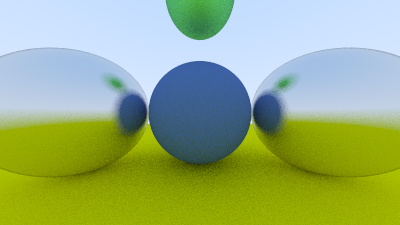
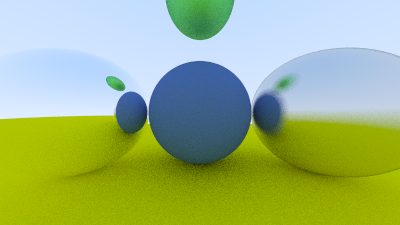
feat: refraction with total internal reflection

diff --git a/src/main.cpp b/src/main.cpp
@@ -17,12 +17,13 @@ int main() {
 	
 	auto material_ground = std::make_shared<lambertian>(color(0.8f, 0.8f, 0.0));
 	auto material_center = std::make_shared<lambertian>(color(0.1f, 0.2f, 0.5f));
+	auto material_dielectric = std::make_shared<dielectric>(1.0/1.33);
 	auto material_metal = std::make_shared<metal>(color(0.8f, 0.8f, 0.8f), 0.2);
 	auto material_metal2 = std::make_shared<metal>(color(0.2f, 0.8f, 0.3f), 0.9);
 
 	world.add(std::make_shared<sphere>(enginemath::Vec3(0.0f, -100.5f, -1.0f), 100.0f, material_ground));
 	world.add(std::make_shared<sphere>(enginemath::Vec3(0.0f, 0.0f, -1.2f), 0.5f, material_center));
-	world.add(std::make_shared<sphere>(enginemath::Vec3(-1.0f, 0.0f, -1.0f), 0.5f, material_metal));
+	world.add(std::make_shared<sphere>(enginemath::Vec3(-1.0f, 0.0f, -1.0f), 0.5f, material_dielectric));
 	world.add(std::make_shared<sphere>(enginemath::Vec3(1.0f, 0.0f, -1.0f), 0.5f, material_metal));
 	world.add(std::make_shared<sphere>(enginemath::Vec3(0.0f, 1.0f, -1.0f), 0.3f, material_metal2));
 

diff --git a/src/material.cpp b/src/material.cpp
@@ -43,3 +43,33 @@ bool metal::scatter(const Ray& r_in,
 	attenuation = albedo;
 	return (scattered.getDirection().dot(rec.normal) > 0);
 }
+
+dielectric::dielectric(float refraction_index) : refraction_index(refraction_index) {
+
+}
+
+bool dielectric::scatter(const Ray& r_in,
+	const hit_record& rec,
+	color& attenuation,
+	Ray& scattered) const {
+
+	attenuation = color(1.0f);
+	double ri = rec.front_face ? (1.0 / refraction_index) : refraction_index;
+
+	enginemath::Vec3 unit_direction = r_in.getDirection().normalized();
+	float cos_theta = std::fmin((-unit_direction).dot(rec.normal), 0);
+	float sin_theta = std::sqrt(1 - cos_theta * cos_theta);
+	enginemath::Vec3 direction;
+
+	// check for TIR
+	if (ri * sin_theta > 1.0) {
+		direction = unit_direction.reflectAcross(rec.normal);
+	}
+	else {
+		direction = enginemath::refract(unit_direction, rec.normal, ri);
+	}
+	
+
+	scattered = Ray(rec.p, direction);
+	return true;
+}

diff --git a/src/utilities.hpp b/src/utilities.hpp
@@ -31,4 +31,11 @@ namespace enginemath {
 		}
 	}
 
+	inline enginemath::Vec3 refract(const enginemath::Vec3& uv, const enginemath::Vec3& n, double etai_over_etat) {
+		auto cos_theta = std::fmin((-uv).dot(n), 1.0);
+
+		enginemath::Vec3 r_out_perp = etai_over_etat * (uv + cos_theta * n);
+		enginemath::Vec3 r_out_parallel = -std::sqrt(std::fabs(1.0 - r_out_perp.magnitudeSq())) * n;
+		return r_out_perp + r_out_parallel;
+	}
 }

diff --git a/src/material.hpp b/src/material.hpp
@@ -40,3 +40,16 @@ class metal : public material {
 		color albedo;
 		float fuzz;
 };
+
+class dielectric : public material {
+	public:
+		dielectric(float refraction_index);
+
+		bool scatter(const Ray& r_in,
+			const hit_record& rec,
+			color& attenuation,
+			Ray& scattered) const override;
+
+	private:
+		float refraction_index;
+};

diff --git a/README.md b/README.md
@@ -1,5 +1,7 @@
 # raytracer
 
-![render](docs/render.png)
+<p align="center">
+  <img src="docs/render.png" alt="render">
+</p>
 
 Built by following [Ray Tracing in One Weekend](https://raytracing.github.io/books/RayTracingInOneWeekend.html) by Peter Shirley, Trevor David Black, and Steve Hollasch.
